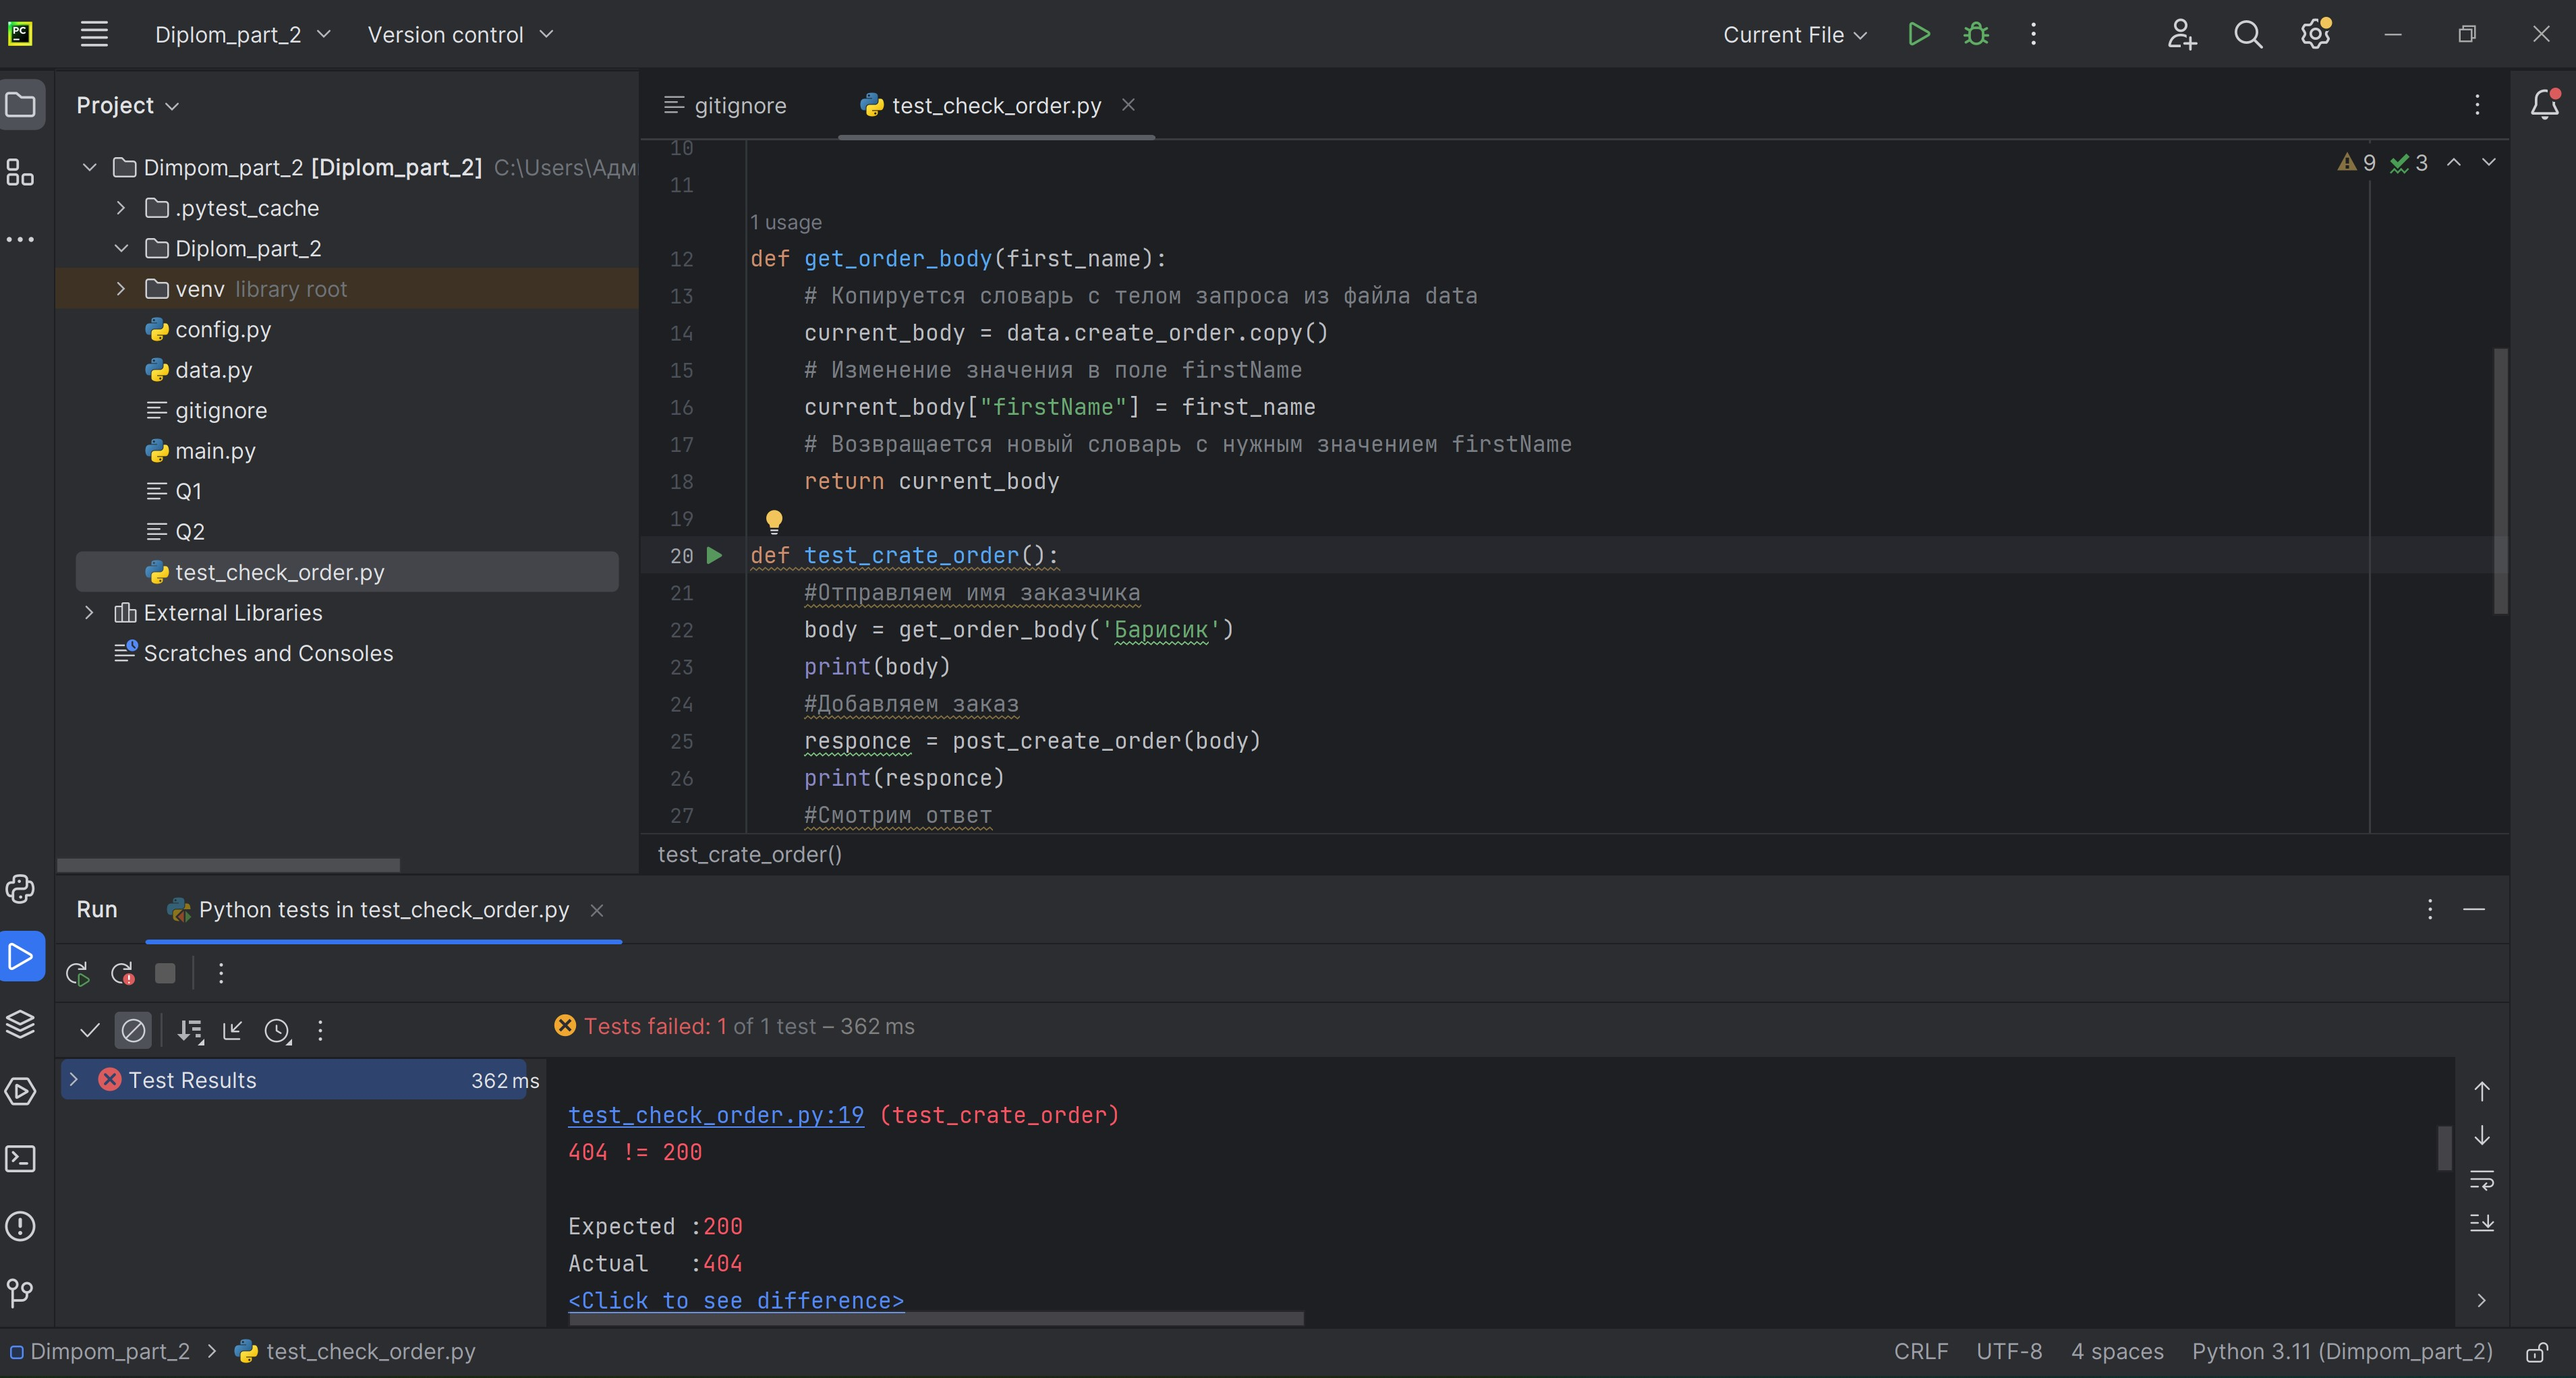
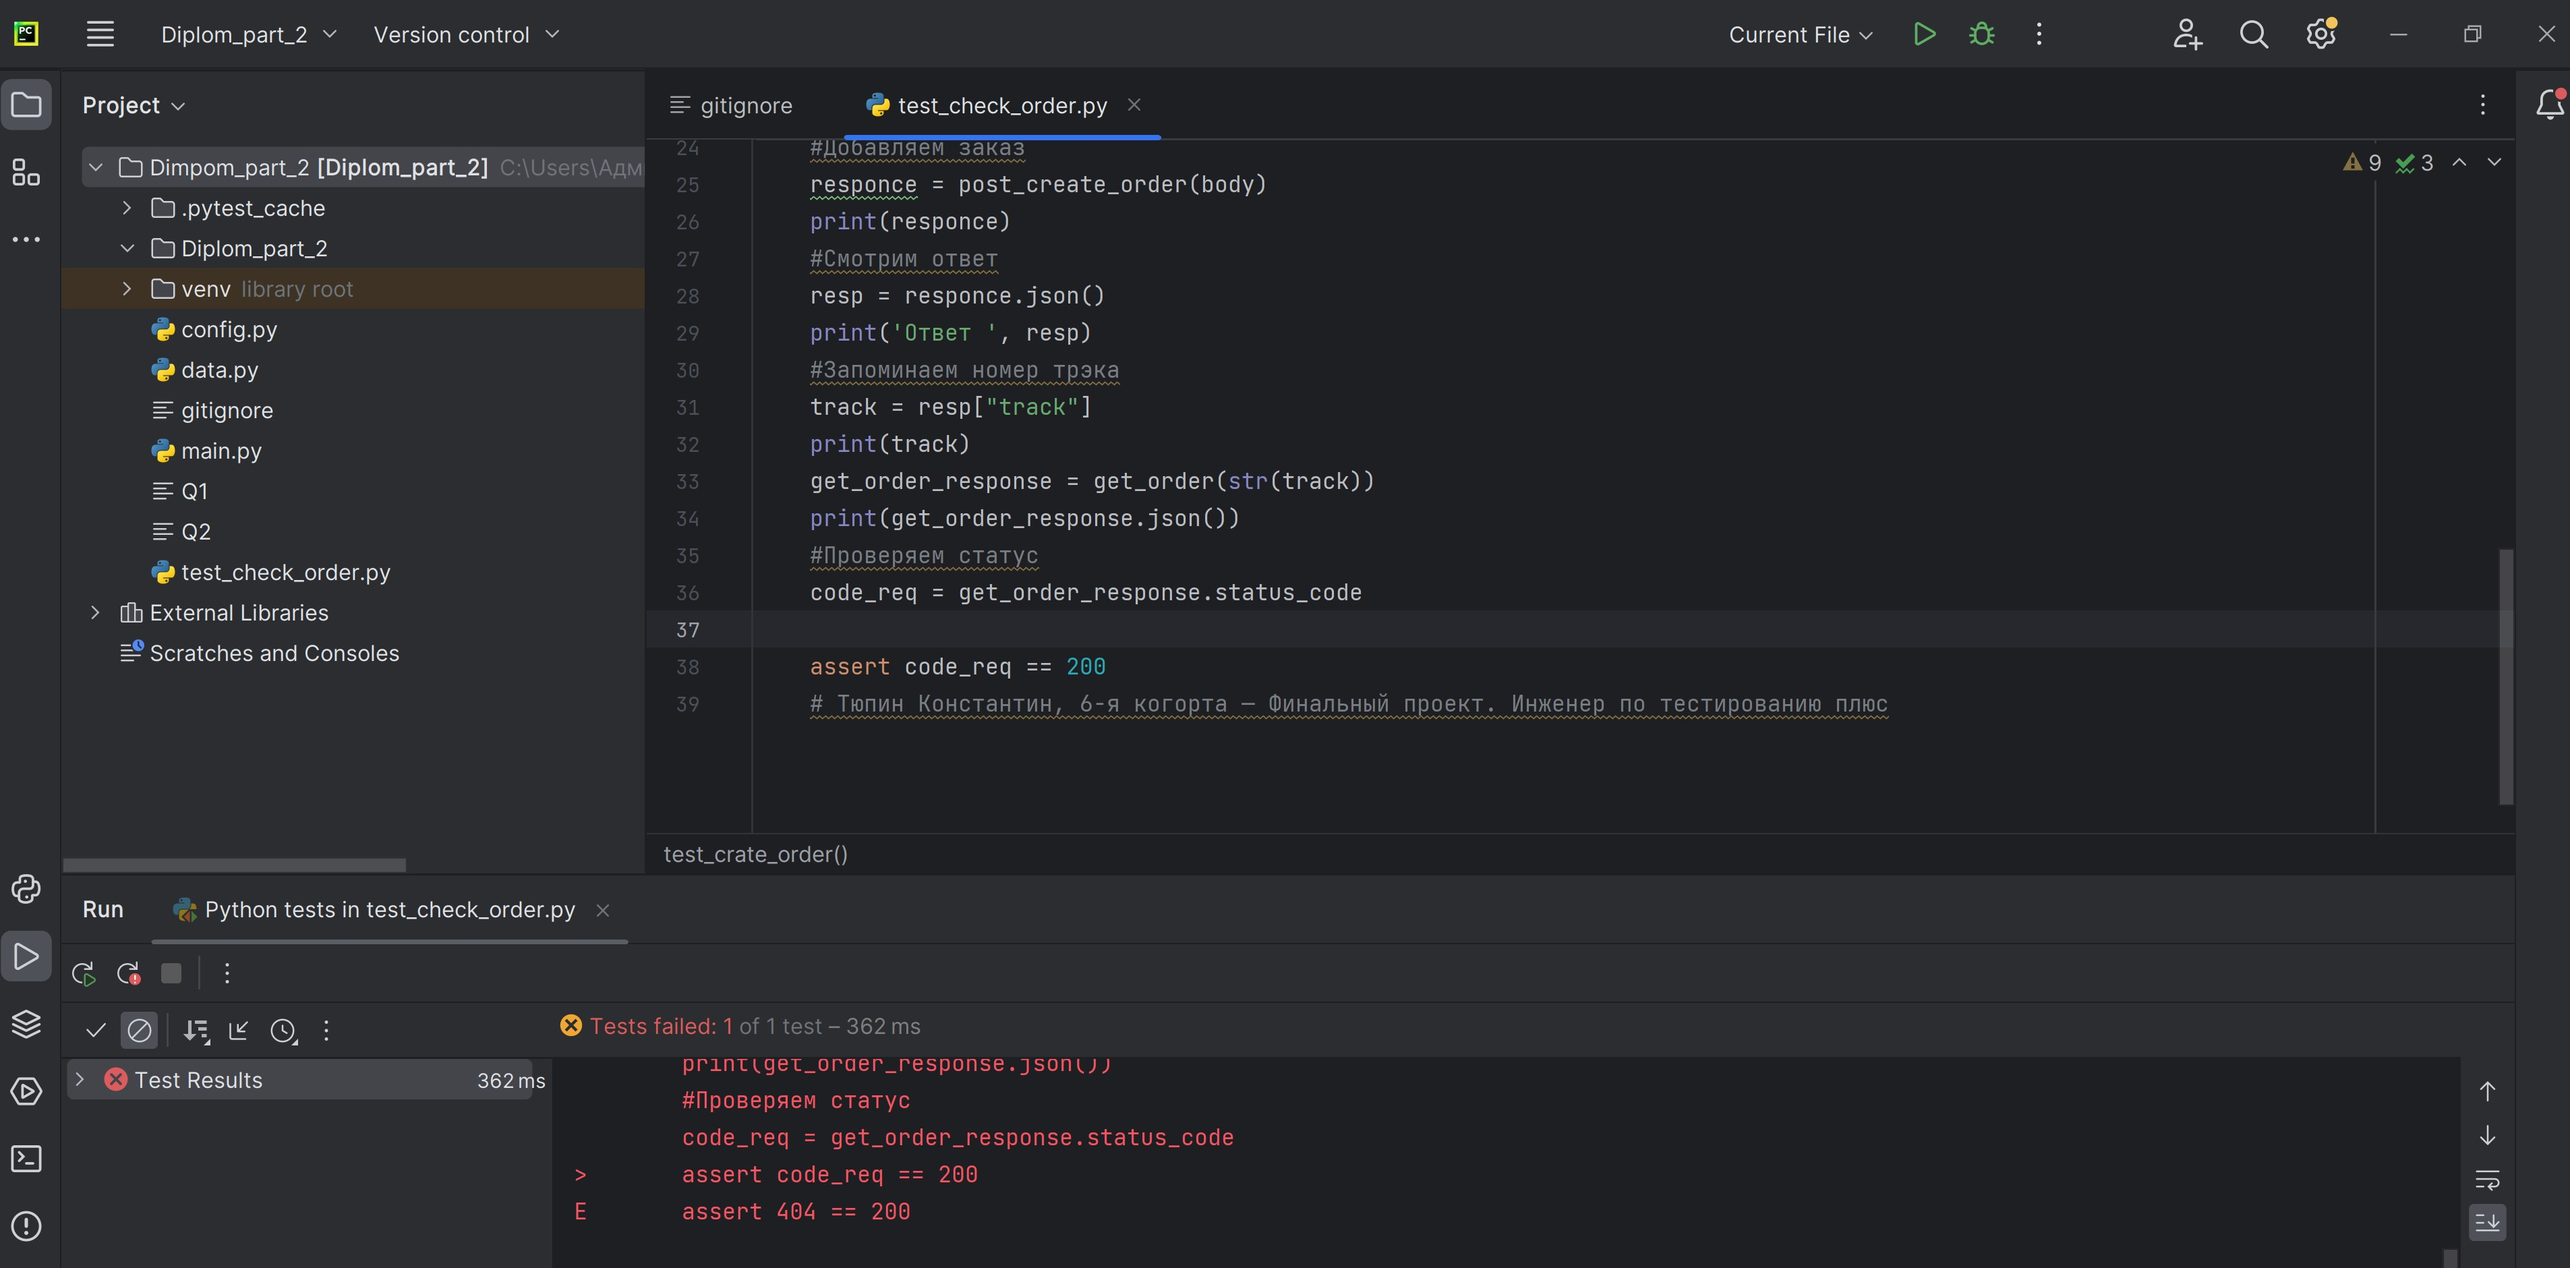
My new changes12344446546

diff --git a/test_check_order.py b/test_check_order.py
@@ -34,4 +34,6 @@ def test_crate_order():
     print(get_order_response.json())
     #Проверяем статус
     code_req = get_order_response.status_code
+   
     assert code_req == 200
+    # Тюпин Константин, 6-я когорта — Финальный проект. Инженер по тестированию плюс
